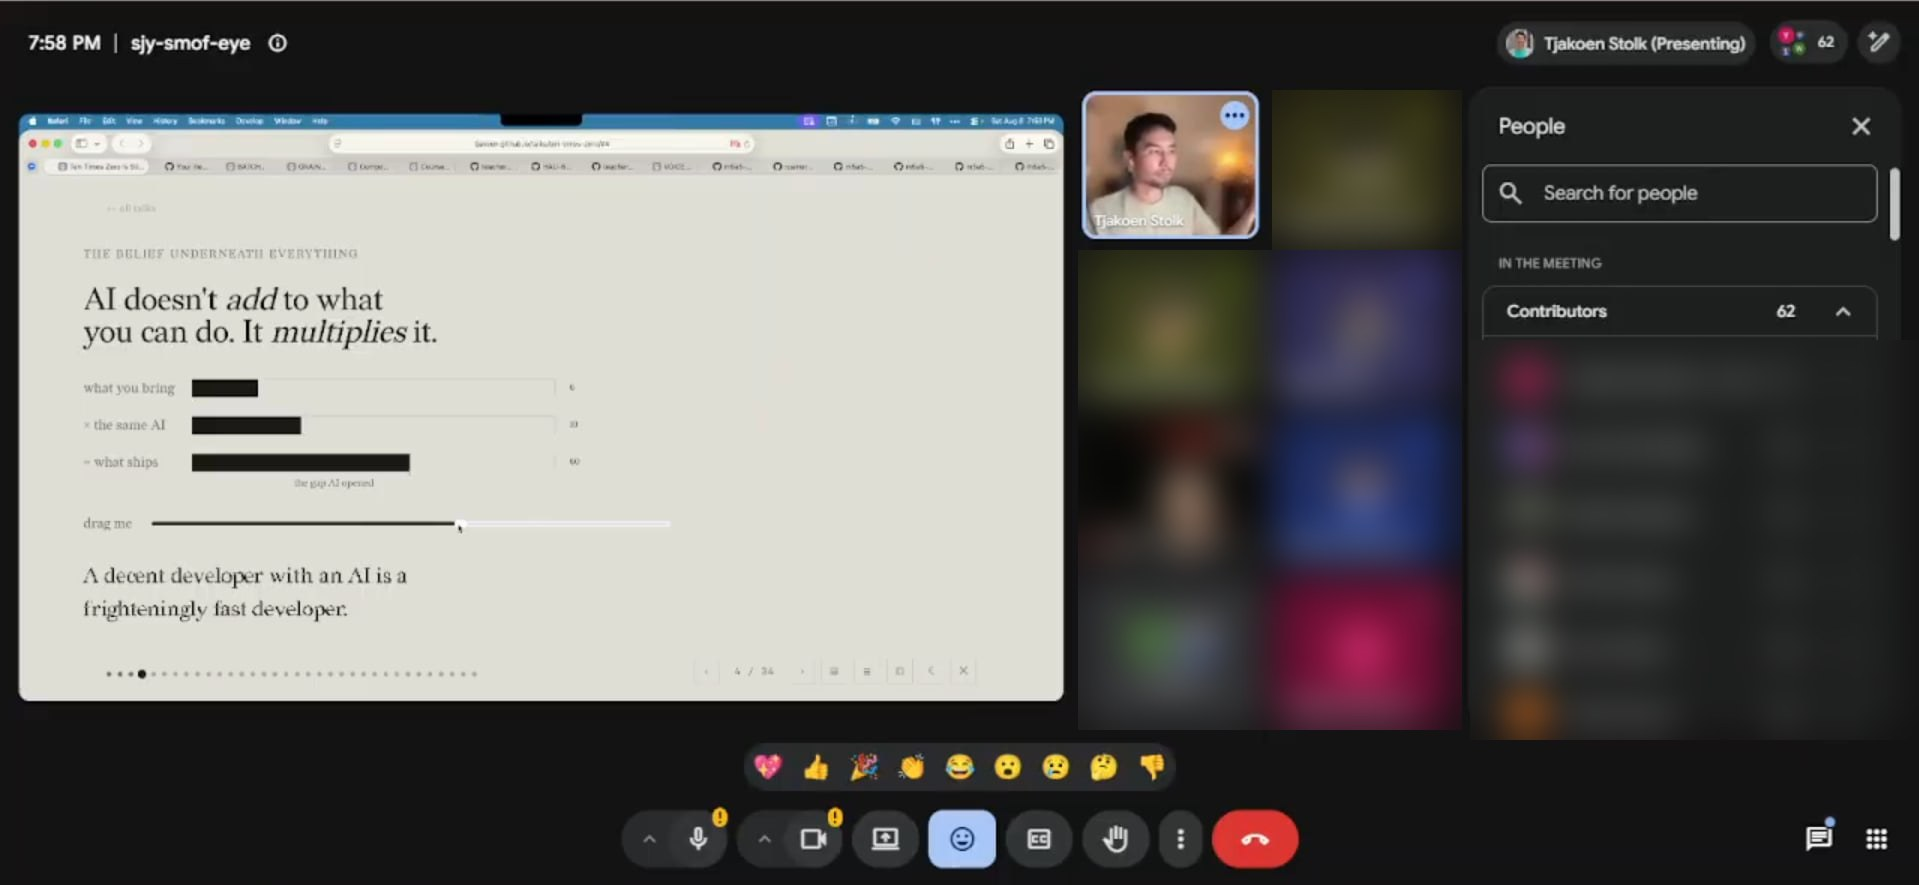
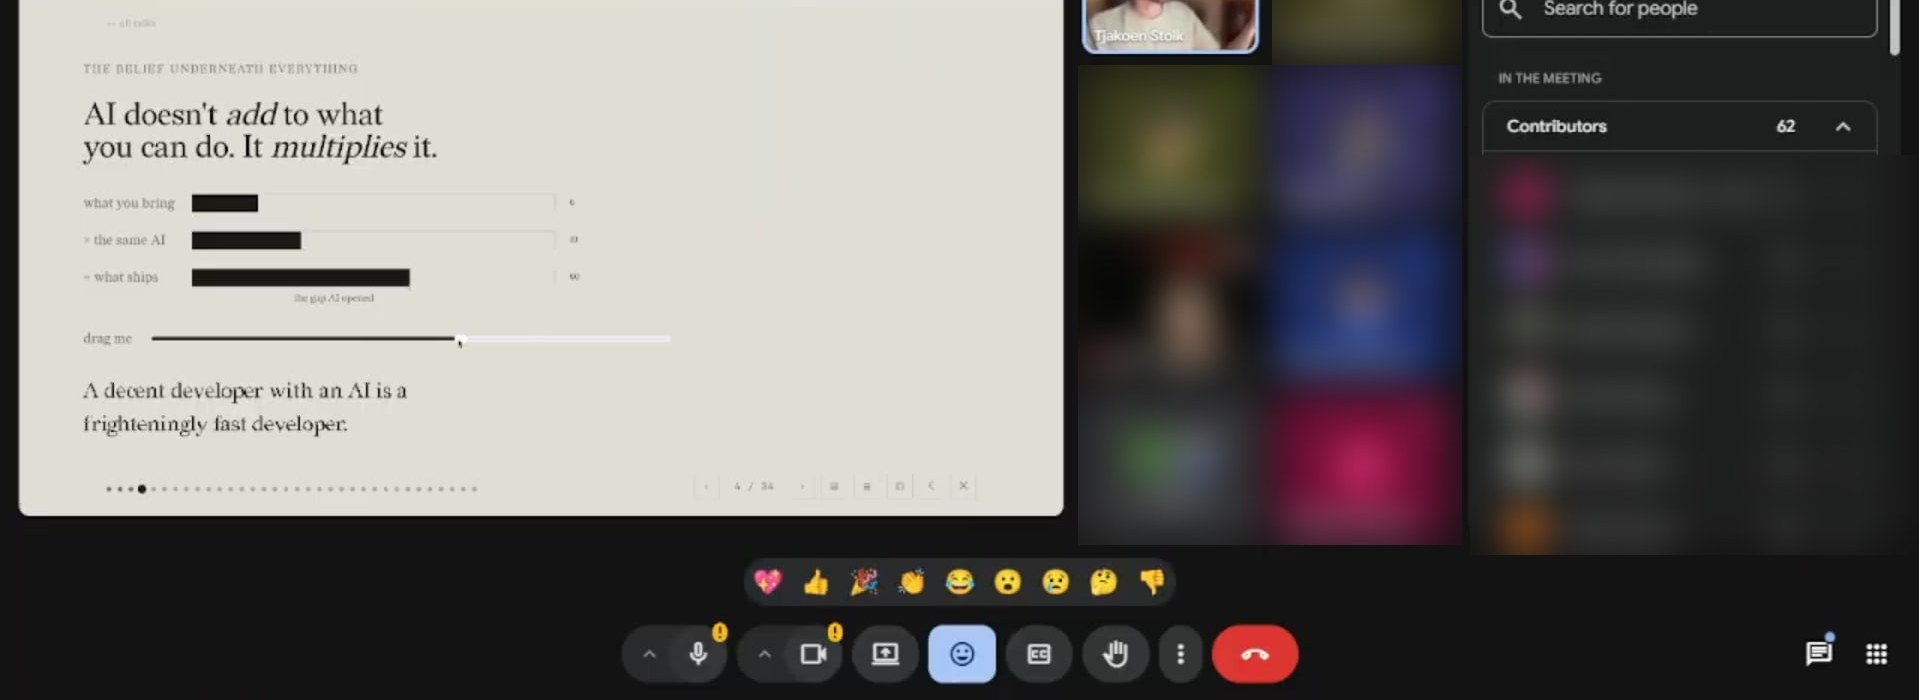
fix(public): the call screenshots lose the browser chrome
Four more from the audit, none of them needing a decision once
the facts were checked.

- both GDGoC screenshots are cropped above the shared window,
  which removes the Safari tab strip. It was legible at zoom and
  showed classroom repo tabs: no student name, but the course
  repo naming pattern, plus the meeting code in the header. The
  slides and the blurred tiles are untouched, and the declared
  dimensions follow the new crop.
- canonicalPath lowercases, because routing is case-insensitive
  and /GRAIN was claiming a canonical of its own. Covered by a
  test that goes red against the old behavior.
- the plans index stops rendering its title as "Plans · Plans".
- the SPLIT-PLAN link was not dead, it had moved to
  docs/history/ in bread. It had been filed as a phantom
  reference since the 2026-07-29 audit and shipped unfixed
  twice, when the fix was a path all along.

Found by the 2026-08-18 public-facing audit.

diff --git a/src/seo.ts b/src/seo.ts
@@ -36,9 +36,14 @@ export const SITE = {
 
 // Canonical path: root stays "/", every other route gets a single trailing slash — identical to the
 // sitemap (server.ts /sitemap.xml) so there is exactly one canonical URL per page.
+//
+// Lowercased, because routing is case-insensitive: /GRAIN, /Grain and /grain all serve the same page
+// with a 200. Without this each variant claimed its own canonical and the set read as duplicates to
+// a crawler. Nothing in the repo links a non-lowercase path today, so this closes a trap rather than
+// a live bug, which is the cheapest moment to close one.
 export function canonicalPath(pathname: string): string {
   if (!pathname || pathname === "/") return "/";
-  return pathname.replace(/\/+$/, "") + "/";
+  return pathname.replace(/\/+$/, "").toLowerCase() + "/";
 }
 
 // A note ENTRY (/notes/<slug>/) is an article; the /notes/ feed and everything else is not.

diff --git a/src/seo.test.ts b/src/seo.test.ts
@@ -182,3 +182,12 @@ describe("enrichHead — safety + idempotency", () => {
     expect(j["@graph"][0].name).toBe("Batch & Grain");
   });
 });
+
+// Routing is case-insensitive, so /GRAIN and /grain serve the same page. They must not each claim a
+// canonical of their own, which is the duplicate-content trap the 2026-08-18 audit found.
+test("canonicalPath collapses case variants onto one URL", () => {
+  expect(canonicalPath("/GRAIN")).toBe("/grain/");
+  expect(canonicalPath("/Grain/")).toBe("/grain/");
+  expect(canonicalPath("/notes/TEN-TIMES-ZERO")).toBe("/notes/ten-times-zero/");
+  expect(canonicalPath("/")).toBe("/");
+});

diff --git a/src/server.ts b/src/server.ts
@@ -354,7 +354,7 @@ const proofRoutes = createProofRoutes({
 <head>
   <meta charset="utf-8">
   <meta name="viewport" content="width=device-width, initial-scale=1">
-  <title>${title} · Plans</title>
+  <title>${title === "Plans" ? title : `${title} · Plans`}</title>
   ${PAGE_HEAD}<link rel="stylesheet" href="/proof.css">
 </head>
 <body data-screen="plans" class="app-window-backdrop">

diff --git a/content/events/gdgoc-hau-general-assembly.md b/content/events/gdgoc-hau-general-assembly.md
@@ -11,8 +11,8 @@ summary: >
   sounds like a compliment until you look at it: vibe coding, and where it stops working.
 photos:
   - "/media/feed/gdgoc-hau-speaker-card.jpg | 1080x1350 | The organizers' speaker card announcing me for the infosession, captioned current adviser of GDGoC, software engineering leader, computer science instructor"
-  - "/media/feed/gdgoc-hau-call-the-point.jpg | 1600x744 | Screenshot from the call: the slide reading Bring nothing and it multiplies nothing, become a bigger number first, with the students' video tiles blurred down the right side"
-  - "/media/feed/gdgoc-hau-call-multiplier.jpg | 1919x885 | Screenshot from the call: the multiplier slide, AI does not add to what you can do, it multiplies it, with the live bar chart, and the participant panel blurred beside a count of 62"
+  - "/media/feed/gdgoc-hau-call-the-point.jpg | 1600x604 | Screenshot from the call: the slide reading Bring nothing and it multiplies nothing, become a bigger number first, with the students' video tiles blurred down the right side"
+  - "/media/feed/gdgoc-hau-call-multiplier.jpg | 1919x700 | Screenshot from the call: the multiplier slide, AI does not add to what you can do, it multiplies it, with the live bar chart, and the participant panel blurred beside a count of 62"
   - "/media/feed/gdgoc-hau-infosession-poster.jpg | 2048x2048 | The event poster: Infosession, Navigating Tech, August 8 2026, 7 PM on Google Meet, on a corkboard of stickers and polaroids"
 deck: "Ten times zero | Talk | /talks/ten-times-zero | 34 slides · runs in the browser, no download"
 social: |

diff --git a/docs/batch/CONSUME-AS-GIT-DEPS.md b/docs/batch/CONSUME-AS-GIT-DEPS.md
@@ -46,4 +46,4 @@ layers are published, rather than pinned as `github:tjakoen/grain#<sha>` subpath
 ## Next steps
 
 - [`GETTING-STARTED.md`](GETTING-STARTED.md) (this layer) and [`../../grain/docs/GETTING-STARTED.md`](../../grain/docs/GETTING-STARTED.md) for what you get once installed.
-- [`SPLIT-PLAN.md`](https://github.com/tjakoen/bread/blob/main/SPLIT-PLAN.md) for the full repo-split plan and timeline.
+- [`SPLIT-PLAN.md`](https://github.com/tjakoen/bread/blob/main/docs/history/SPLIT-PLAN.md) for the full repo-split plan and timeline.
